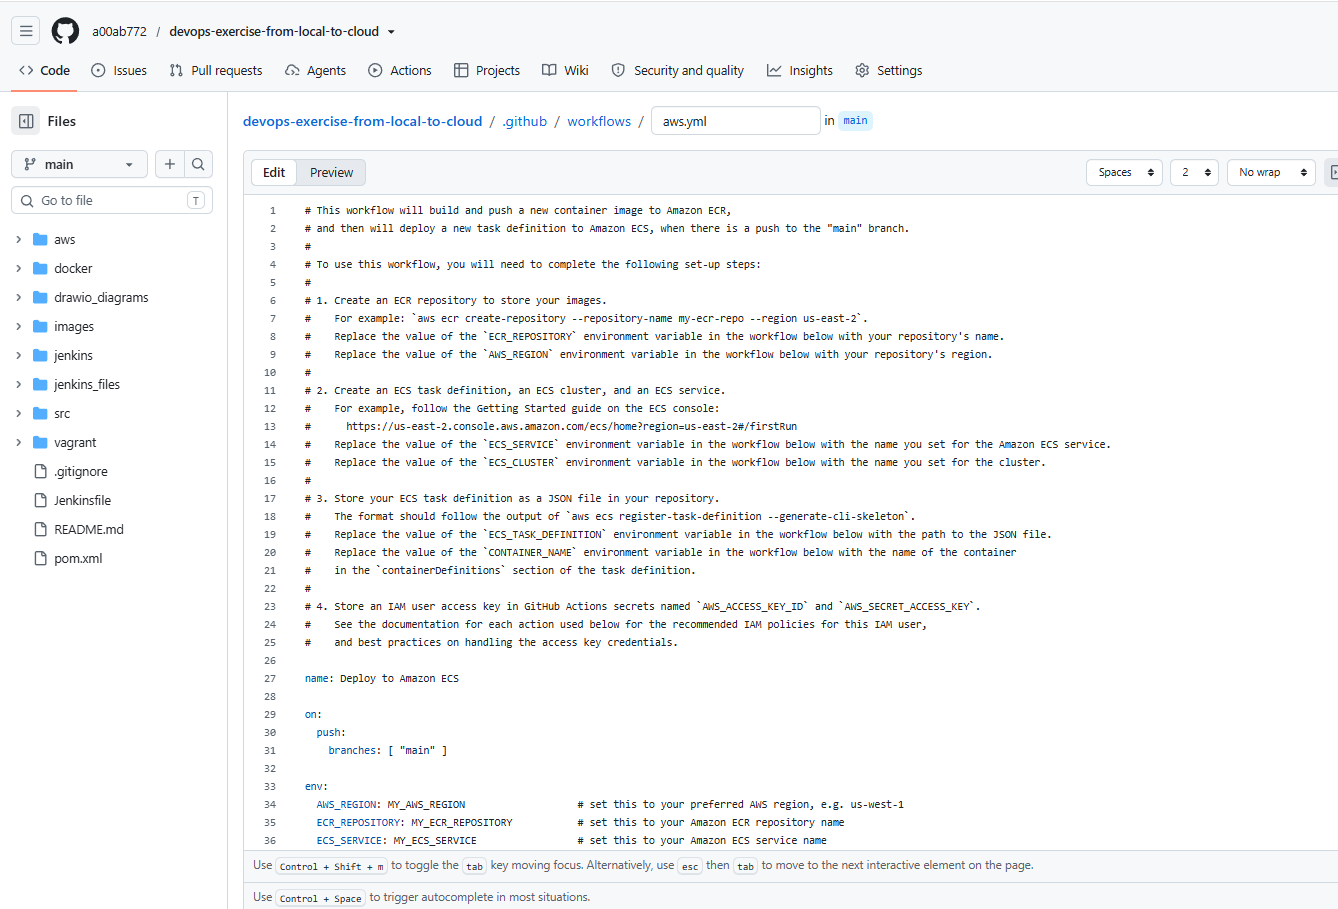
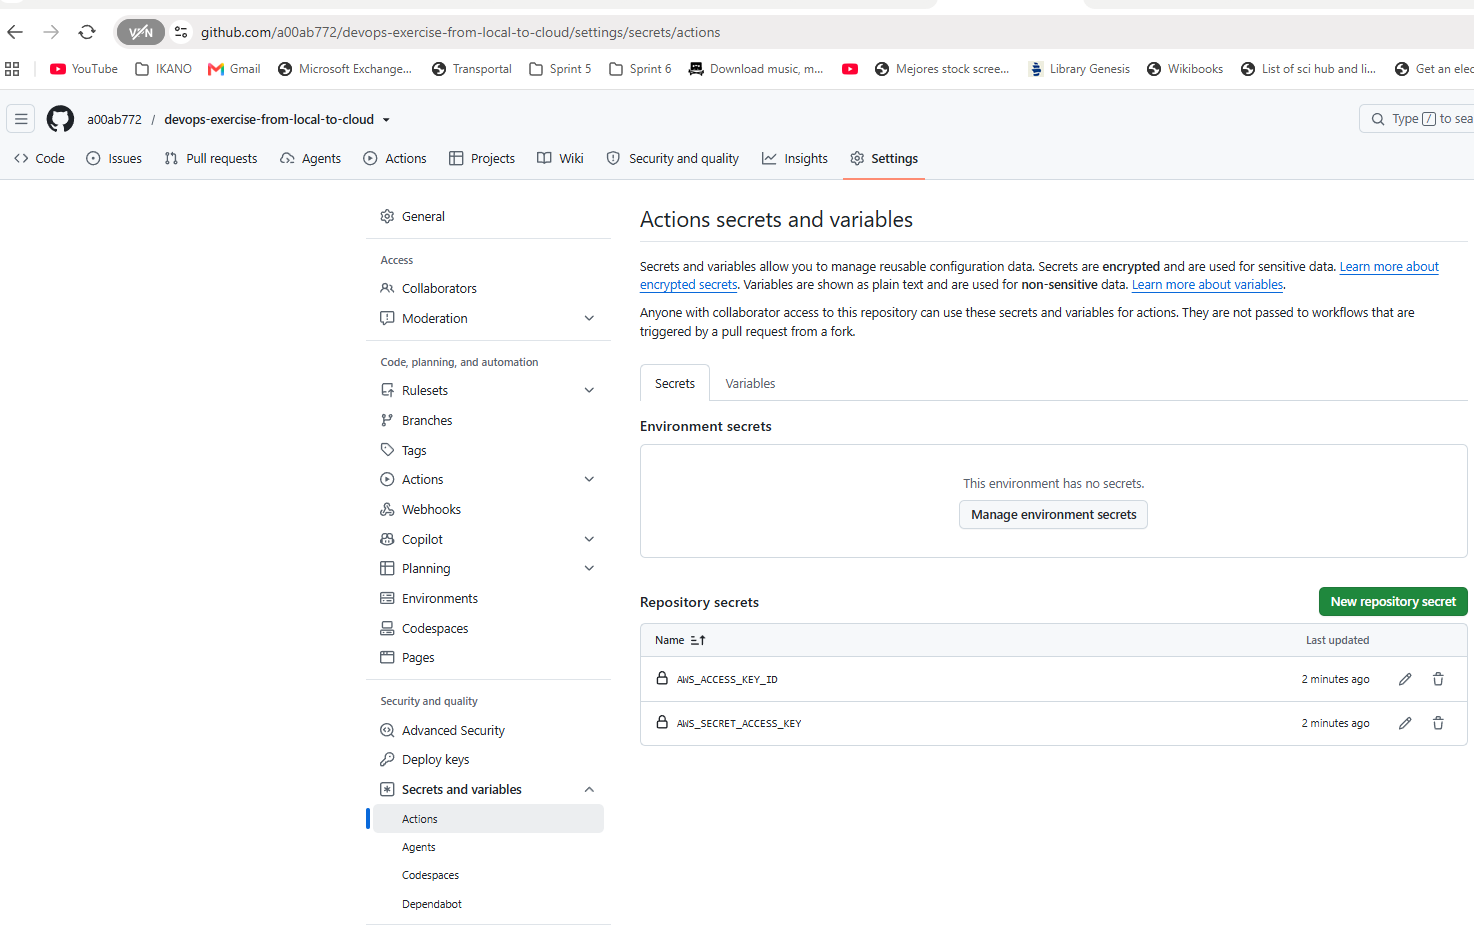
Github action done

diff --git a/github_actions/README.md b/github_actions/README.md
@@ -13,10 +13,44 @@ Options:
   teardown  : Cleans up and deletes all created AWS resources (ECS, ECR, and IAM user).
 ```
 
+Run it:
 
-![docker_cicd_github_actions](images/docker_cicd_github_actions.png)
+```bash
+user@DESKTOP-SCNMK3I UCRT64 ~/Documents/devops-exercise-from-local-to-cloud/github_actions/scripts (main)
+Wed Oct 14 07:20:32
+$ ./setup_ghactions_aws.sh provision
+[2026-10-14 07:20:44] 1. Creating ECR Repository: myapprepo...
+[2026-10-14 07:20:46] 2. Creating ECS Cluster: devops-exercise-from-local-to-cloud...
+[2026-10-14 07:20:48] 3. Registering initial placeholder Task Definition: devops-exercise-from-local-to-cloud-task...
+[2026-10-14 07:20:49] 4. Creating ECS Service: devops-exercise-from-local-to-cloud-service...
+[2026-10-14 07:20:53] 5. Creating IAM user for GitHub Actions: github-actions-deployer...
+[2026-10-14 07:20:56] 6. Attaching required deployment policies...
+[2026-10-14 07:20:59] 7. Generating Access Keys and updating GitHub Secrets automatically...
+✓ Set Actions secret AWS_ACCESS_KEY_ID for a00ab772/devops-exercise-from-local-to-cloud
+✓ Set Actions secret AWS_SECRET_ACCESS_KEY for a00ab772/devops-exercise-from-local-to-cloud
+[2026-10-14 07:21:04] GitHub Secrets 'AWS_ACCESS_KEY_ID' and 'AWS_SECRET_ACCESS_KEY' successfully configured!
+[2026-10-14 07:21:04] Provisioning complete!
+```
 
+The IAM user has been created and provided with proper permissions to interact with ECS:
+
+![docker_cicd_github_actions](docker_cicd_github_actions.png)
+
+The Github repository secrets has been generated and stored in your Github repo configuration:
 
 ![docker_cicd_github_actions_01](images/docker_cicd_github_actions_01.png)
 
+Next, you can click in the Actions menu and click in the Deploy to Amazon ECS configuration button:
+
+![docker_cicd_github_actions_02](images/docker_cicd_github_actions_02.png)
+
+This is the result:
+
+![docker_cicd_github_actions_03](images/docker_cicd_github_actions_03.png)
+
+We actually will not create it as it is, instead we will use the [../.github/workflows/aws.yml](../.github/workflows/aws.yml) github actions yaml file that I have tailored from the above generated code, to make use of the github variables that the script created and stored on our behalf.
+
+Additionally we create the [../task-definition.json](../task-definition.json) to be used by the GitHub action.
+
+Let's push the code:
 
